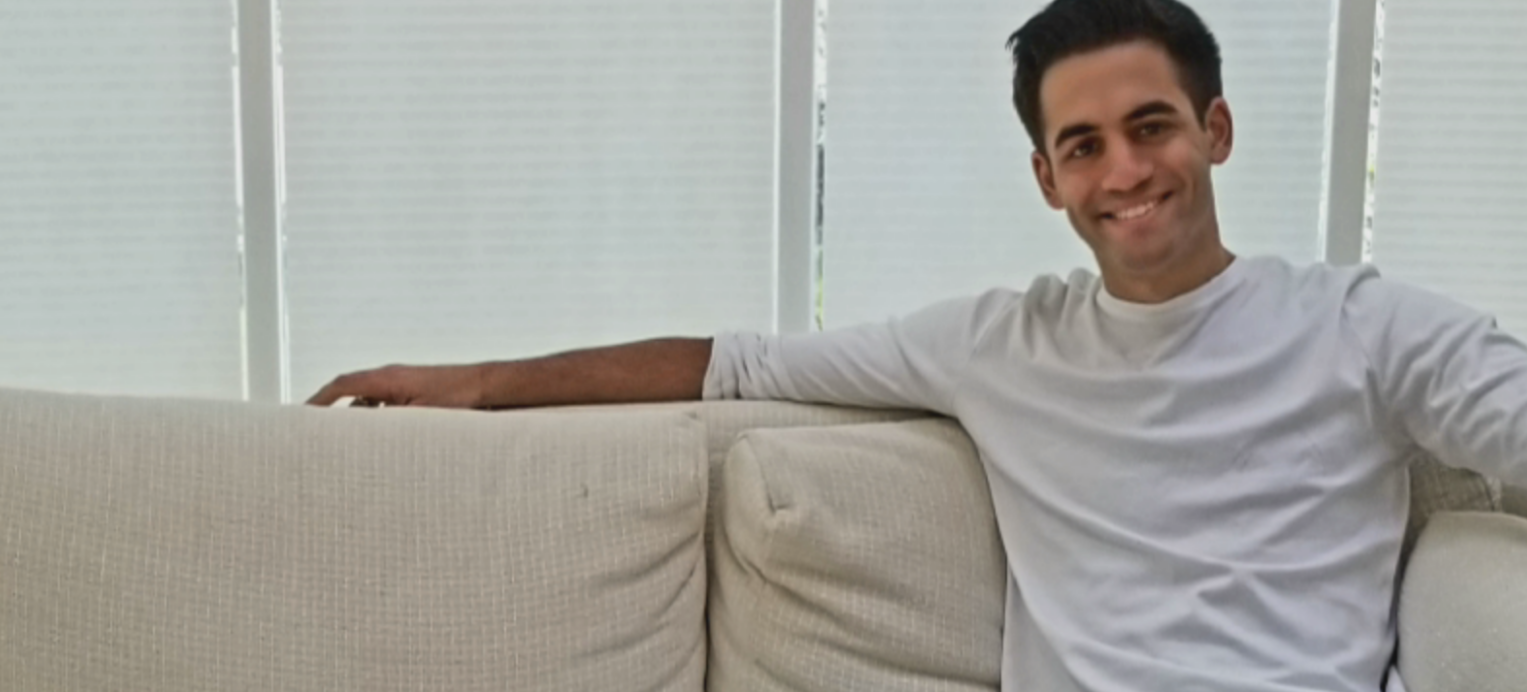
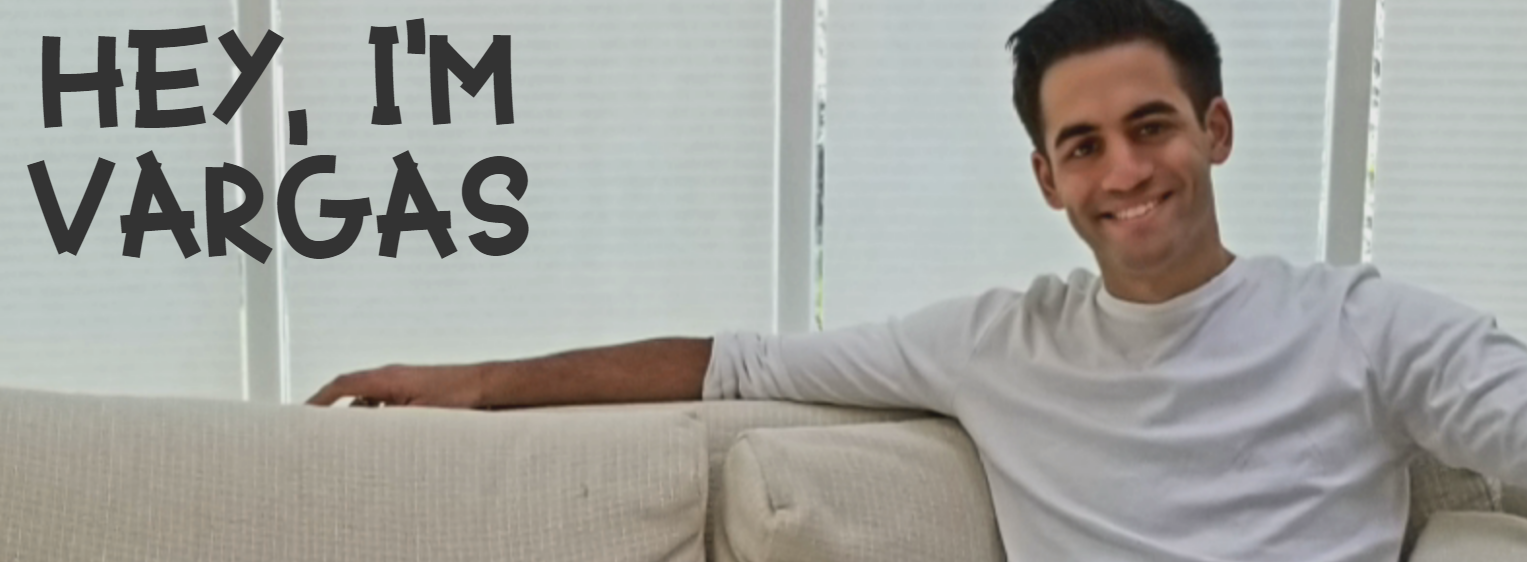
Embed Title into Image

diff --git a/src/pages/index.tsx b/src/pages/index.tsx
@@ -10,7 +10,7 @@ import Box from "@material-ui/core/Box";
 import NoSsr from "@material-ui/core/NoSsr";
 
 const WIDTH = 1527;
-const HEIGHT = 692;
+const HEIGHT = 562;
 
 const Index = () => {
   const data = useStaticQuery(graphql`
@@ -30,22 +30,6 @@ const Index = () => {
             aspectRatio={WIDTH / HEIGHT}
           />
         </NoSsr>
-        <div
-          style={{
-            position: "absolute",
-            top: 32,
-            left: 32,
-            fontStyle: "italic",
-            textAlign: "center",
-          }}
-        >
-          <Typography variant="h2" style={{ color: colors.primary }}>
-            HEY, I'M
-          </Typography>
-          <Typography variant="h1" style={{ color: colors.primary }}>
-            VARGAS
-          </Typography>
-        </div>
       </Box>
       <Container
         maxWidth="xs"
